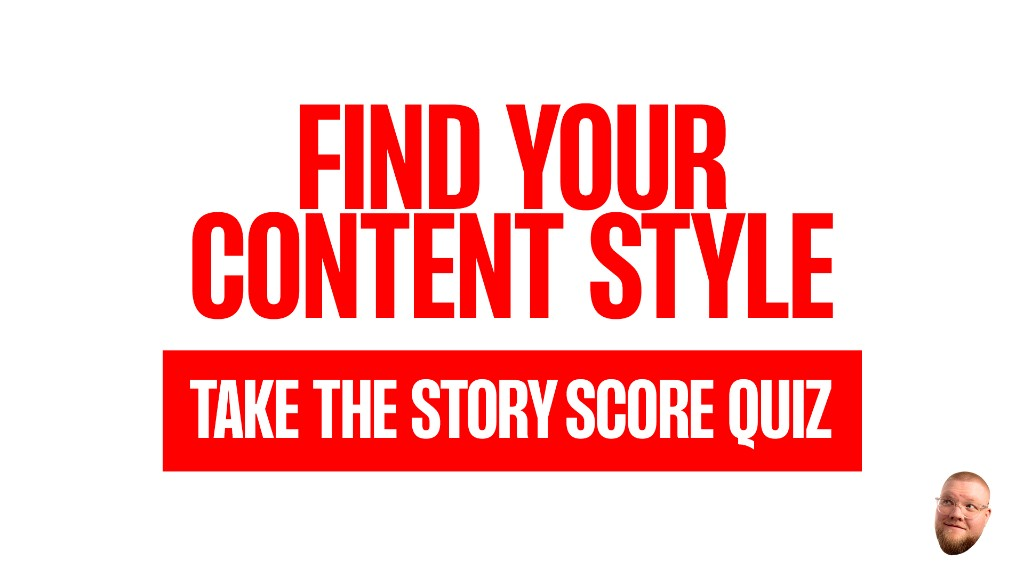
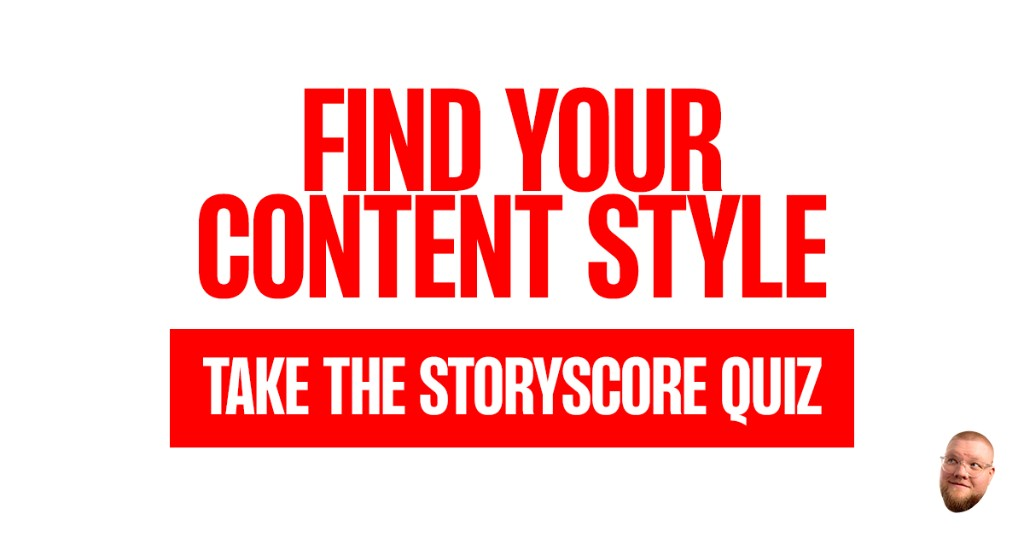
image change

Changed region(s): [[0.1875, 0.149, 0.8125, 0.5661], [0.1562, 0.5959, 0.8438, 0.8343], [0.9062, 0.8045, 0.9688, 0.9832]]

diff --git a/app/layout.tsx b/app/layout.tsx
@@ -20,7 +20,7 @@ export const metadata: Metadata = {
       {
         url: ogImageUrl,
         width: 1024,
-        height: 576,
+        height: 537,
         alt: "StoryScore: Find your personal brand voice",
       },
     ],